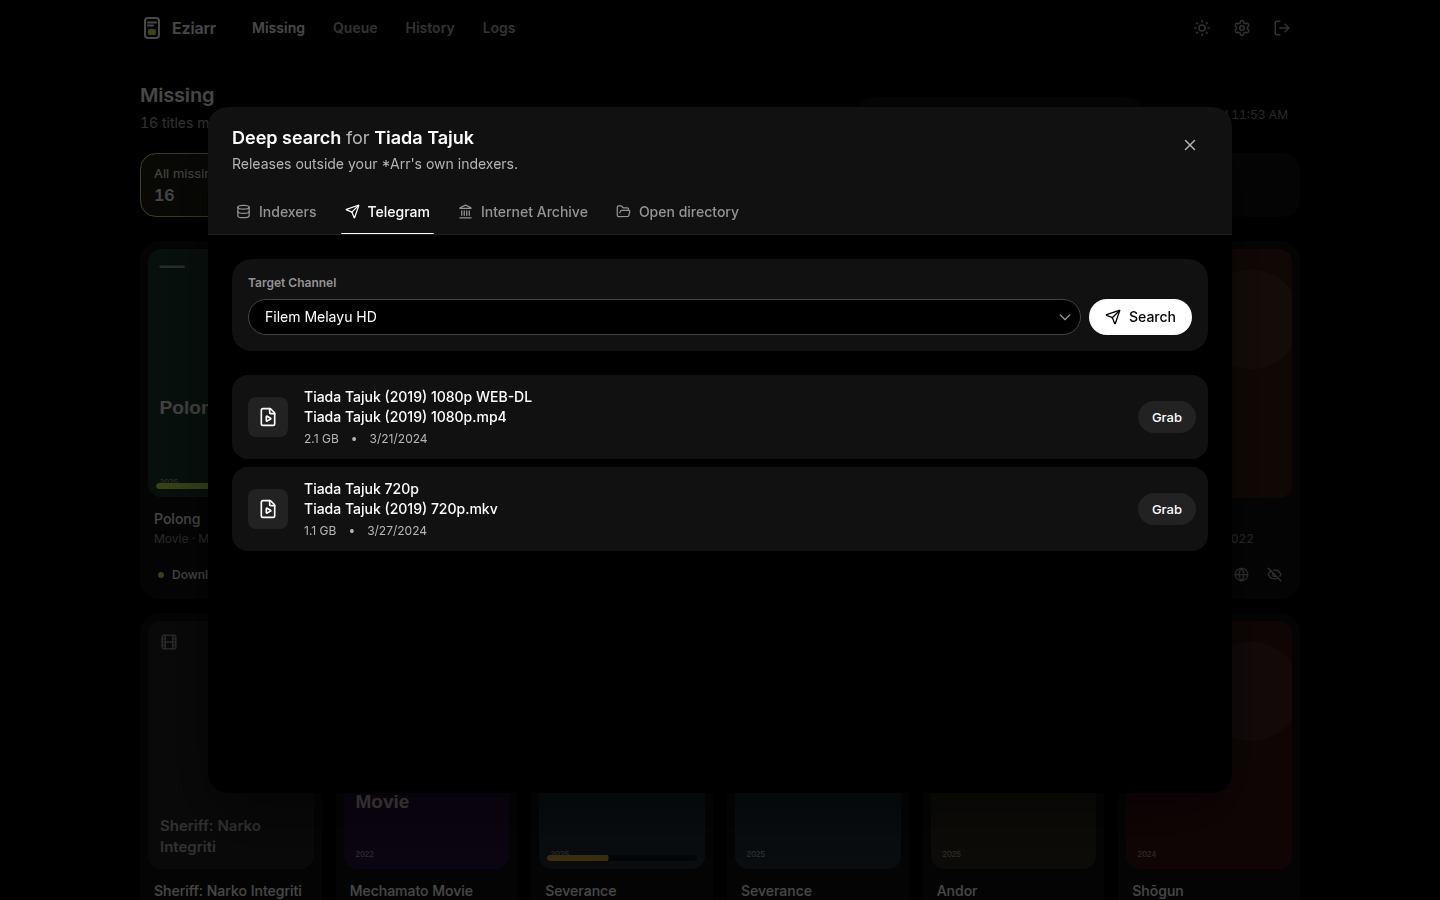
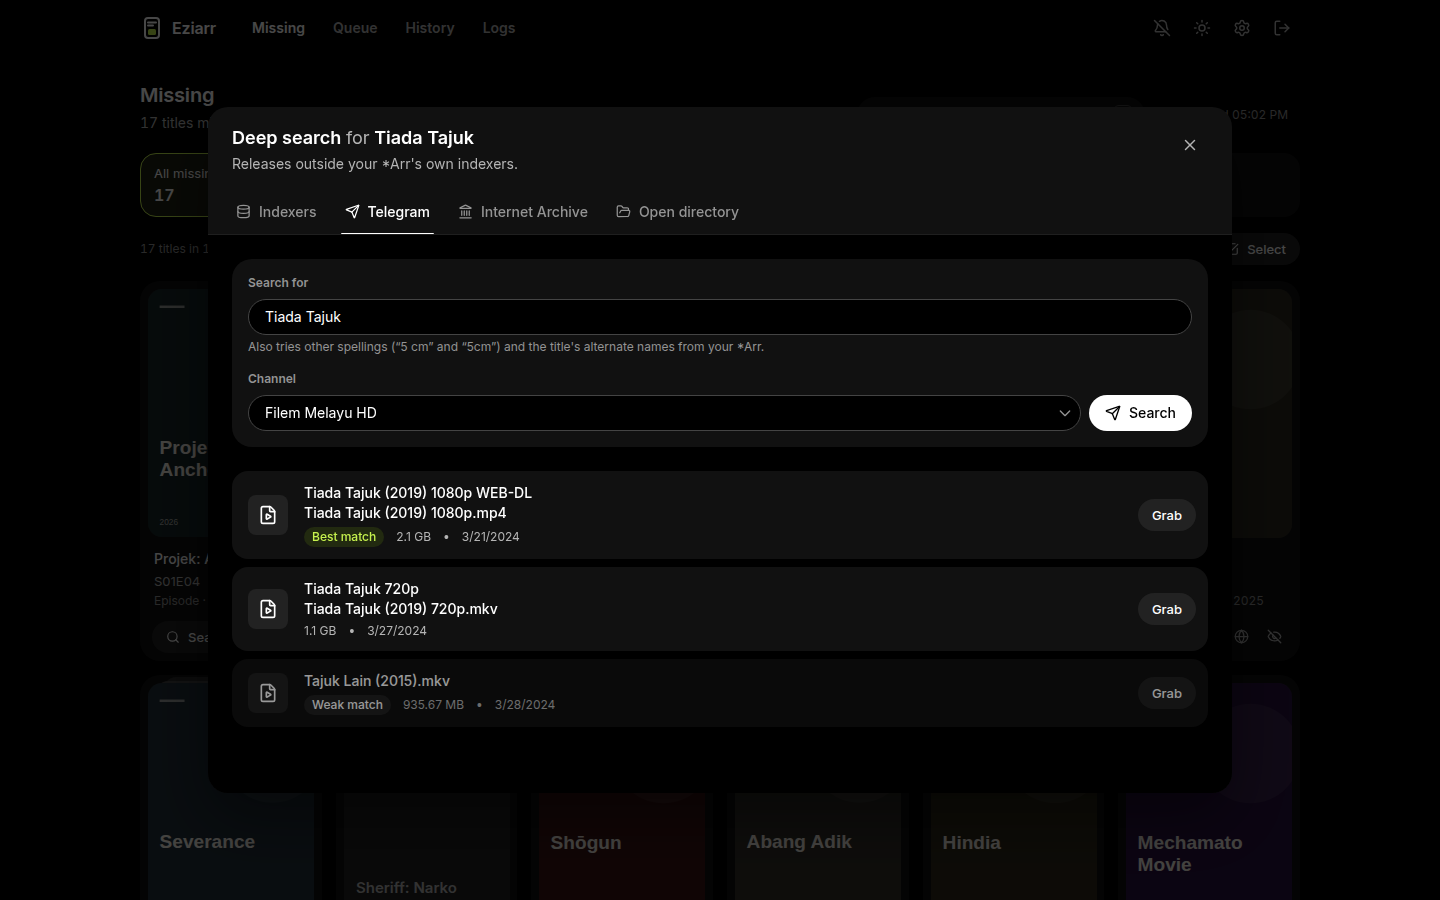
docs: deep search details and smarter Telegram search in 1.5.0
Claude-Session: https://claude.ai/code/session_01VgLCrRvJJ5k5cEMnbjriKV

diff --git a/DEVELOPER.md b/DEVELOPER.md
@@ -104,6 +104,8 @@ Everything is under `/api/v1`. Public: `GET /` (health), `GET`/`POST /firsttime`
 | Sources | `GET /telegram/status` · `POST /telegram/auth/send-code` · `POST /telegram/auth/login` · `POST /telegram/search` · `POST /ia/search` · `GET /ia/files/:identifier` · `POST /opendir/scan` |
 | Settings & system | `GET`/`POST /settings` · `POST /settings/batch` · `GET /system/status` · `POST /system/test` · `GET /system/tasks` · `GET /system/logs?type=general\|hunter` |
 
+**Telegram search** (`POST /telegram/search`, `backend/match.js`). Telegram matches whole words, so "5 cm" never finds "5cm". The service builds up to 10 searches: the query as typed, spelling variants (number+word joined and split, punctuation and a leading "The" dropped, `&`/"and", part numbers as Roman numerals and back, the episode code as `S01E04`), and the title's original and alternate names read from the *Arr when `service`/`serviceId` are sent. Every file is then scored against all those titles with spacing, punctuation, case and accents ignored, plus or minus for the year and the episode, and the list comes back best first with its `score`.
+
 **The live stream.** `GET /missing/stream` sends `event: missing` (the list) and `event: queue` (`{ queue, unavailable }`), each only when it changed, and a `: ping` comment otherwise. One 4 s loop in the server feeds every open stream and stops when the last one closes; the 5 s queue cache in `fetchAllQueues` keeps the *Arrs from being asked more often than that, however many tabs are open. Every tick re-checks the access token the stream opened with, so the stream ends when it expires (15 min) or the password changes; the page then refreshes its session and reconnects (`hooks/useLiveMissing.js`).
 
 Response schemas are enforced: Elysia **drops fields a response model doesn't declare**, so a new field needs adding to its model in `models/` or it never reaches the UI. With `NODE_ENV=development`, the OpenAPI UI is served at `/openapi`.
@@ -119,6 +121,7 @@ Response schemas are enforced: Elysia **drops fields a response model doesn't de
 | `components/BulkBar.jsx` | The action bar of select mode. |
 | `components/PosterDrift.jsx` | The three.js backdrop behind sign-in and "All caught up"; lazy, so the wall never loads three.js. |
 | `utils/wall.js` | Pure helpers: `isUpcoming`, episode codes, folding episodes into series, sorting. |
+| `utils/release.js` | Reads a release name (resolution, source, codec, HDR, audio, camera rips), warns about dead or undersized releases, merges duplicates and orders deep-search results. Tested in `tests/unit/`. |
 | `hooks/useLiveMissing.js` | SWR plus the event stream; polls only while the stream is down. |
 | `hooks/useArrivals.js` | "Downloaded" toasts and opt-in notifications (remembers titles seen downloading until they leave the list). |
 | `hooks/useShortcuts.js` | `/` and Esc. |
@@ -143,6 +146,7 @@ Response schemas are enforced: Elysia **drops fields a response model doesn't de
 - `bun test` in `backend/` (or `bun run test` from the root). The suites use the Vitest-style API (`describe`, `it`, `vi.mock`), which Bun provides; there is no Vitest dependency.
 - `tests/setup.js` is preloaded (`bunfig.toml`) and points `EZIARR_DB_DIR`, `EZIARR_LOG_DIR` and `EZIARR_DOWNLOAD_DIR` at a temp directory, removed after the run. Tests never touch `db/`.
 - Test files share one process and one database: clean up rows you create, and don't depend on another file or test having run first. `bun test --randomize` should pass.
+- **Frontend unit tests** (`bun run test:unit` in `frontend/`): pure helpers such as the release-name parser.
 - **Browser smoke test** (`frontend/tests/smoke.test.js`, `bun run smoke` after `bun run build`): starts `tests/mock-api.js` (a mock of the API with 600 titles) and `vite preview`, then drives Chrome over the DevTools protocol (`tests/cdp.js`; set `CHROME_BIN` if Chrome isn't on the path). It covers sign-in, the virtualized wall, series cards, filters, sorting, shortcuts, select mode and a download finishing over the stream. The mock is also handy for UI work: `bun tests/mock-api.js` and `bun run dev` (see the header of the file for its switches).
 - CI (`.github/workflows/test.yml`) runs on pushes to `main`/`staging`/`dev` and on PRs: backend tests, then `biome ci`, the frontend build and the smoke test, on Bun 1.4.3 with `--frozen-lockfile`.
 

diff --git a/CHANGELOG.md b/CHANGELOG.md
@@ -33,7 +33,18 @@ and this project adheres to [Semantic Versioning](https://semver.org/spec/v2.0.0
   motion and is skipped without WebGL.
 - **Poster tilt:** with a mouse, a poster leans towards the pointer and
   catches a soft light.
-- **Browser smoke test in CI**, against a mock API.
+- **Deep search results say what each release is:** badges read from the
+  name (resolution, source, codec, HDR, audio, multi-audio, subs), peers,
+  grabs, age, freeleech and a link to the indexer's page. Camera rips,
+  dead torrents and files too small for their resolution are flagged and
+  sorted last; the same release on several indexers is one row. Order by
+  best, seeders, newest or size.
+- **Smarter Telegram search:** the search box is editable, and Eziarr also
+  searches the other ways a name gets written ("5 cm" / "5cm", "Part 2" /
+  "Part II", S1E4 / S01E04) and the original and alternate titles from
+  Radarr, Sonarr or Lidarr. Files come back ranked by how well they match,
+  with the best match marked and weak ones dimmed.
+- **Browser smoke test in CI**, against a mock API, and frontend unit tests.
 
 ### Changed
 - **The wall renders only the rows on screen.** With 3000 missing titles
@@ -42,6 +53,11 @@ and this project adheres to [Semantic Versioning](https://semver.org/spec/v2.0.0
   the filter changes.
 - Episode cards show the episode code ("S02E07") under the series name
   instead of repeating the series name.
+
+### Fixed
+- **Force-grabbing a Usenet result** told the *Arr it was a torrent, so
+  the NZB went to the torrent client. The release's protocol is now passed
+  through.
 
 ## [1.4.1] - 2026-10-22
 

diff --git a/README.md b/README.md
@@ -16,8 +16,8 @@ Eziarr sits beside your *Arr stack. It lists every missing movie, episode and al
 - **Install it as an app** on your phone or desktop (over HTTPS).
 - **Hunter.** A background worker re-searches old missing items on your indexers on a schedule.
 - **Deep search** when the indexers fail:
-  - **Indexers** via Prowlarr, with a **force grab** that temporarily lifts quality-profile, language and queue restrictions to push a release through.
-  - **Telegram** (your own account over MTProto, so large files work).
+  - **Indexers** via Prowlarr, with a **force grab** that temporarily lifts quality-profile, language and queue restrictions to push a release through. Each release shows what its name says (resolution, source, codec, HDR, audio), its peers, grabs and age, and warnings for camera rips, dead torrents and files too small to be real; the same release on several indexers is one row.
+  - **Telegram** (your own account over MTProto, so large files work). The search box is editable, and Eziarr also tries the other ways a name gets written ("5 cm" and "5cm", "Part 2" and "Part II") and the alternate titles your *Arr knows, then ranks files by how well they match.
   - **Internet Archive** and **open directories** (Apache/Nginx listings).
 - **Auto-import.** Downloads are renamed the way the *Arr expects ("Title (Year).ext", "Series S01E02.ext") and imported with a targeted scan. For movies, Eziarr checks with Radarr that the file really landed before calling it done.
 - **Keeps running when an *Arr doesn't.** If one *Arr is down, the rest of the wall still loads and the UI says which service isn't answering.

diff --git a/AGENTS.md b/AGENTS.md
@@ -12,6 +12,7 @@ Guidance for AI coding agents (and humans in a hurry) working on Eziarr. Archite
 | One test file | `cd backend && bun test tests/import.test.js` |
 | Frontend lint + format check | `cd frontend && bun run check` (`bunx biome check --write` to fix) |
 | Frontend build | `cd frontend && bun run build` (writes `../client`) |
+| Frontend unit tests | `cd frontend && bun run test:unit` |
 | Browser smoke test | `cd frontend && bun run smoke` (after a build; needs Chrome, `CHROME_BIN` to pick one) |
 | UI against fake data | `cd frontend && bun tests/mock-api.js` then `bun run dev` (`COUNT=3000` for a large library) |
 
